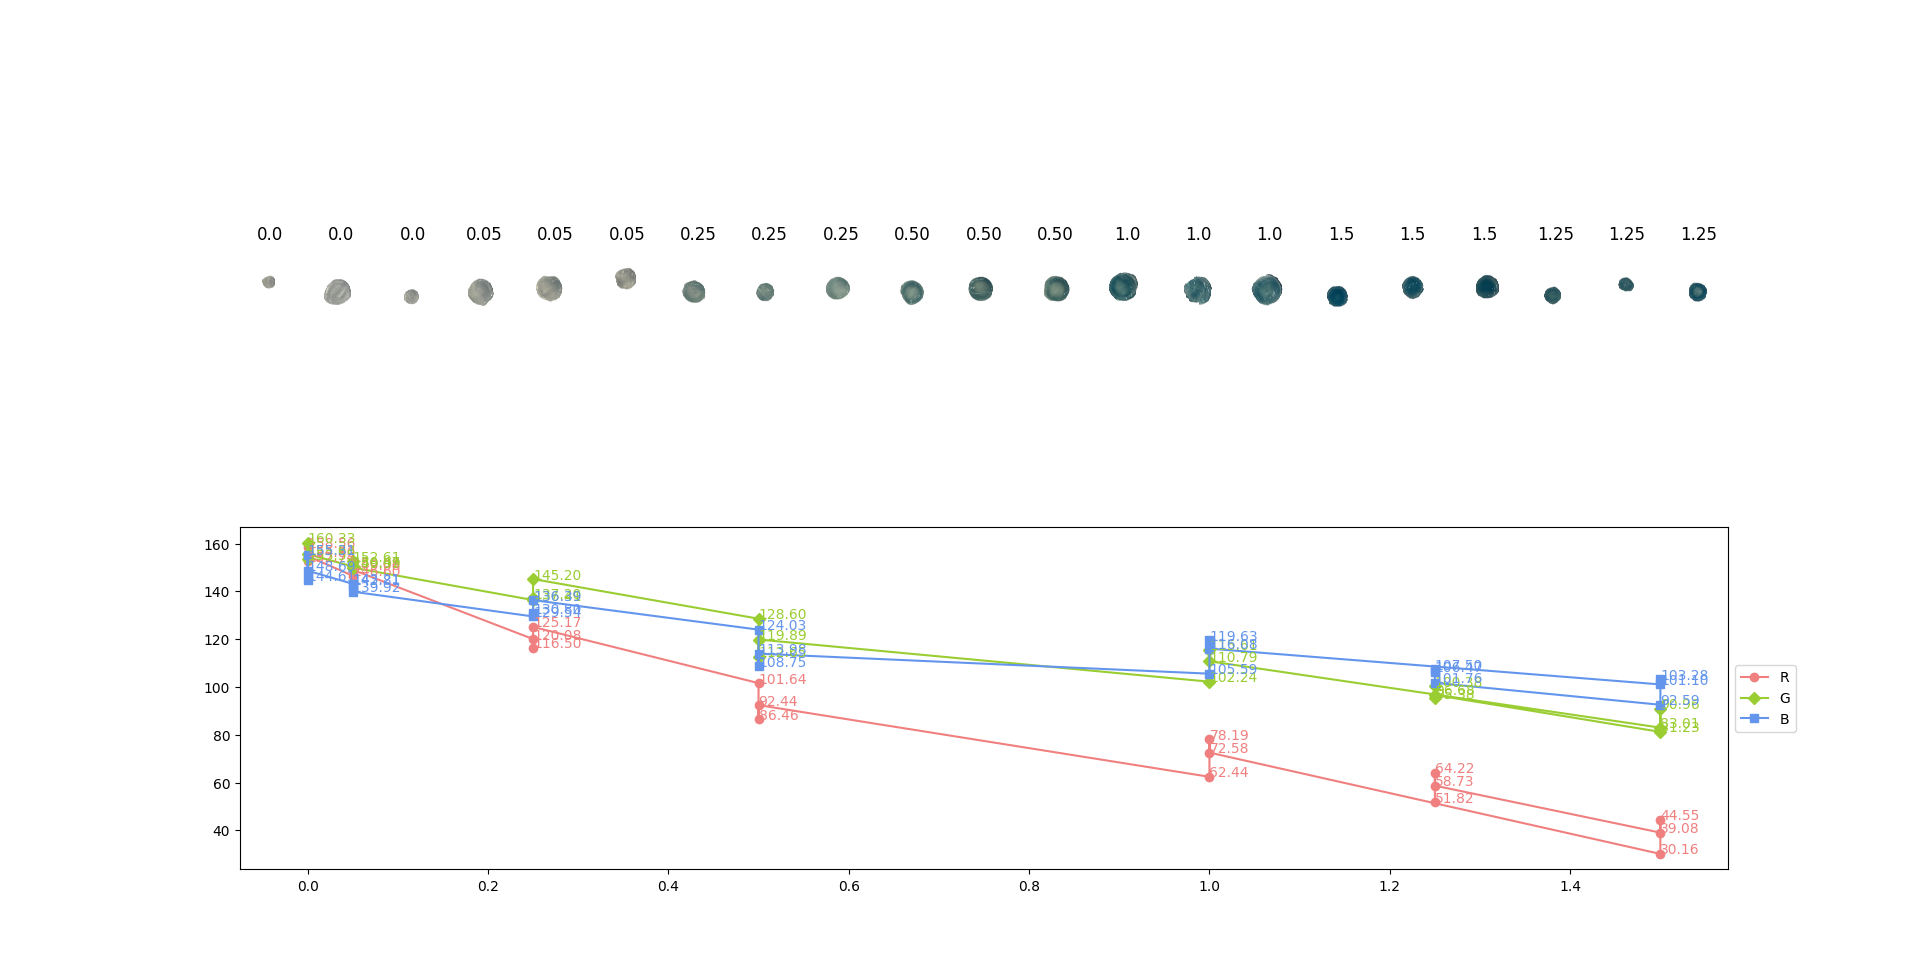
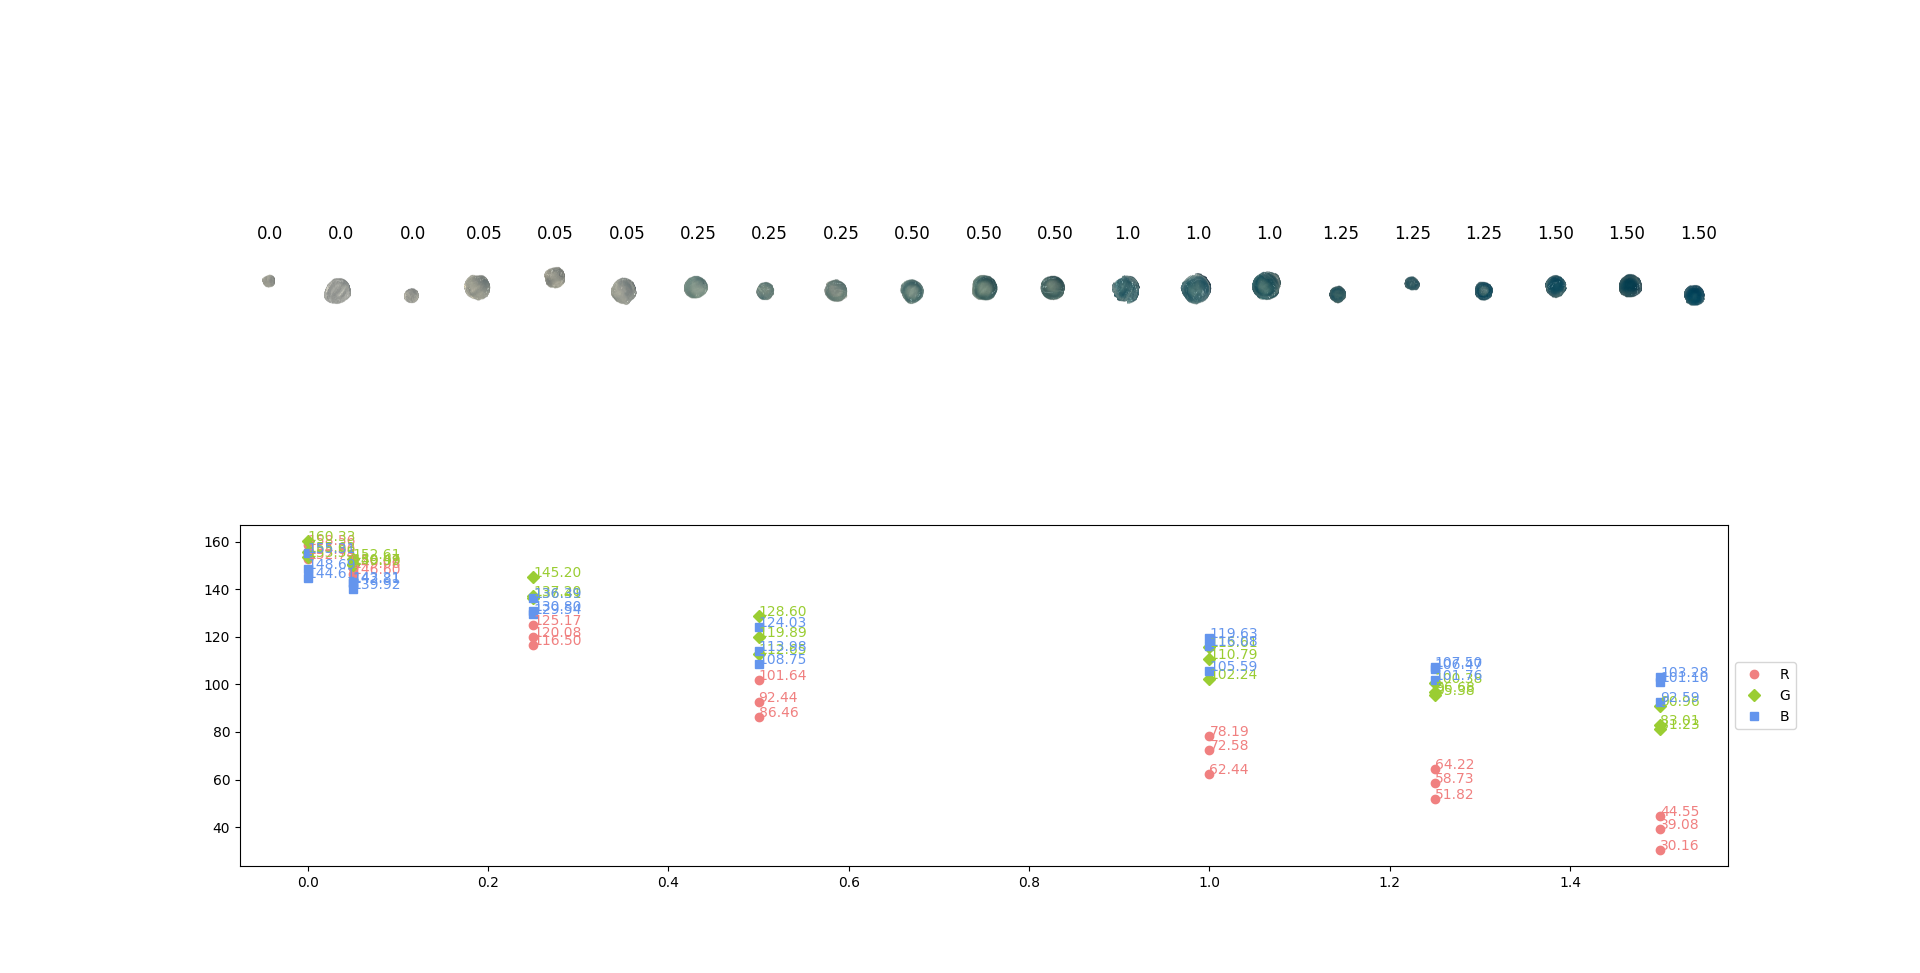
1

diff --git a/get_rgb_data.py b/get_rgb_data.py
@@ -61,13 +61,13 @@ def comparison(imgs):
     rgb.append(get_rgb(imgs[i]))
   # Plots of R
   red = np.array([i[0] for i in rgb])
-  p1 = axes[1, 0].plot(concentrations, red, color="lightcoral", marker="o")
+  p1 = axes[1, 0].plot(concentrations, red, color="lightcoral", linestyle='None', marker="o")
   # Plots of G
   green = np.array([i[1] for i in rgb])
-  p2 = axes[1, 0].plot(concentrations, green, color="yellowgreen", marker="D")
+  p2 = axes[1, 0].plot(concentrations, green, color="yellowgreen", linestyle='None', marker="D")
   # Plots of B
   blue = np.array([i[2] for i in rgb])
-  p3 = axes[1, 0].plot(concentrations, blue, color="cornflowerblue", marker="s")
+  p3 = axes[1, 0].plot(concentrations, blue, color="cornflowerblue", linestyle='None', marker="s")
   # Show RGB values
   for a, b in zip(concentrations, red):
     axes[1, 0].text(a, b, str("{:.2f}".format(b)), color="lightcoral")
